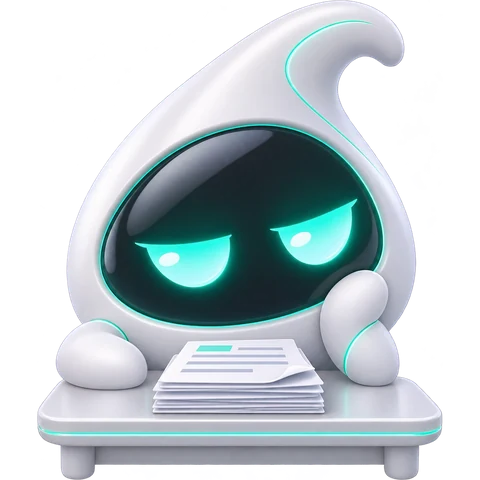
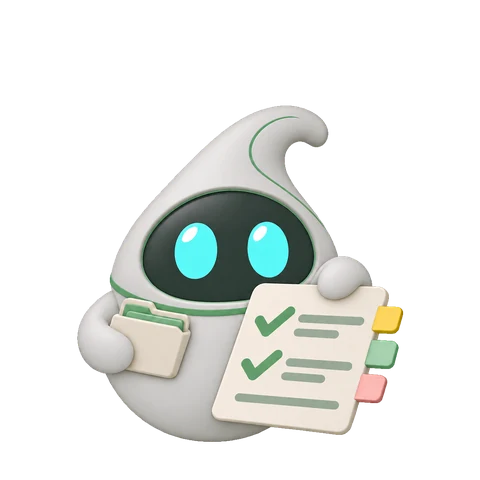
診断結果の8タイプのミーを新しい絵と名前にし、差し替えツールを足す
- assets/img/types/*.webp：本編のミーと同じしずく形・シアンの目にそろえた8体（480px 透過 webp）
- report.js：タイプ名を新しい8つに変え、MCD・MGD のミーのせりふを名前に合わせる
- if.js：記録に保存された古いタイプ名を、今の名前で出す
- tools/type_art.py：ID名の PNG を置いたフォルダから、確認して webp に書き出す（--dry-run で確認だけ）

diff --git a/report.js b/report.js
@@ -7,30 +7,30 @@ import { GAME_URL, HASHTAG, C, MIN, KOWAI, SANS, asset, loadImage, grain, tornPa
 // tonight：今夜の気づき。今夜の動き方への問いかけと、次に試せることを一つの段落に。
 // mi：ミーのひとこと。1文・30字くらい（TRUE・SECRET のあとだけ出す。BAD END とおかえりのあとは出さない）。
 export const TYPES = {
-  SCW: { name: '「ソースどこ？」探偵', line: '自分の手で動き、ミーの話を掲示や記録で確かめながら、あちこち見て回った。', sticker: 'mi-ok', art: 'types/SCW',
+  SCW: { name: '裏取りハンター', line: '自分の手で動き、ミーの話を掲示や記録で確かめながら、あちこち見て回った。', sticker: 'mi-ok', art: 'types/SCW',
     tonight: '今夜は、ミーの言葉を使う前に、壁の紙や記録で確かめていました。急いでいる日なら、どこまで確かめるでしょう。日付と出典だけ見て、残りは任せてみる手もあります。',
     mi: '私が案内したあと、ちゃんと紙でも確かめてたよね。' },
-  SCD: { name: '「その紙、もう一回」係', line: '自分で動き、一つの手がかりを資料と何度も照らし合わせた。', sticker: 'mi-tired', art: 'types/SCD',
+  SCD: { name: '深掘り博士', line: '自分で動き、一つの手がかりを資料と何度も照らし合わせた。', sticker: 'mi-tired', art: 'types/SCD',
     tonight: '今夜は、一つの手がかりを最後まで追っていました。そのあいだに通り過ぎた場所にも、別の手がかりがあったかもしれません。最初の答えを確かめたら、別の出典をもう一つだけ横に並べてみると、見え方が変わることがあります。',
     mi: '同じ紙、何回見るの？　私がもう覚えてるのに。' },
-  SGW: { name: '説明書を読まない勇者', line: '説明より先に手が出る。自分で触って、広く動いた。', sticker: 'mi-yay', art: 'types/SGW',
+  SGW: { name: '好奇心コレクター', line: '説明より先に手が出る。自分で触って、広く動いた。', sticker: 'mi-yay', art: 'types/SGW',
     tonight: '今夜は、説明を聞くより先に手が動いていました。触って分かることと、触る前に聞いておきたいことの境目は、どこだったでしょう。次にAIの答えで動くときは、「それはいつの情報？」と一回だけ聞いてみてもいいかもしれません。',
     mi: 'まだ説明の途中だったのに、もう触ってたよね。' },
-  SGD: { name: '最短ルートの鍵開け職人', line: '目の前の手がかりで、自分の手で一直線に進んだ。', sticker: 'mi-hi', art: 'types/SGD',
+  SGD: { name: 'まっすぐ職人', line: '目の前の手がかりで、自分の手で一直線に進んだ。', sticker: 'mi-hi', art: 'types/SGD',
     tonight: '今夜は、目の前の手がかりだけで、まっすぐ進んでいました。最初の手がかりが古かったら、どこで気づけたでしょう。急いで決めるときも、掲示や公式サイトを一枚だけ見てから決めると、気づける場所が一つ増えます。',
     mi: '寄り道しないんだね。私の話も、ほとんど聞かずに。' },
-  MCW: { name: 'ミーの裏ボス', line: '任せるところは任せつつ、あちこちの資料で答え合わせをした。', sticker: 'mi-bath', art: 'types/MCW',
+  MCW: { name: '影の司令塔', line: '任せるところは任せつつ、あちこちの資料で答え合わせをした。', sticker: 'mi-bath', art: 'types/MCW',
     tonight: '今夜は、操作をミーに任せたぶん、あちこちを見て回る時間がありました。任せた操作の中に、あとから取り消せないものはありましたか。ふだんのアプリでも、自動で送ったり払ったりする前に確認が出る設定があるか、一度見ておくと、任せられる範囲が分かります。',
     mi: '任せてくれたのに、あとで全部答え合わせしてたよね。' },
-  MCD: { name: '「根拠は？」上司', line: 'ミーに任せた答えを、一点ずつ確かめた。', sticker: 'mi-sad', art: 'types/MCD',
+  MCD: { name: '根拠の番人', line: 'ミーに任せた答えを、一点ずつ確かめた。', sticker: 'mi-sad', art: 'types/MCD',
     tonight: '今夜は、ミーに任せた答えを、一つずつ確かめていました。確かめる前に実行されてしまう操作だったら、どうしたでしょう。同じAIに聞き直すより、答えのもとになったページを開くほうが早いこともあります。',
-    mi: '任せたあと一つずつ確かめるの、上司みたいだった。' },
-  MGW: { name: 'ミーと寄り道ツアー中', line: '案内はミーに任せて、あちこち見て回った。', sticker: 'mi-eat', art: 'types/MGW',
+    mi: '任せたあと一つずつ確かめるの、番人みたいだった。' },
+  MGW: { name: '寄り道トラベラー', line: '案内はミーに任せて、あちこち見て回った。', sticker: 'mi-eat', art: 'types/MGW',
     tonight: '今夜は、ミーの案内に乗って、あちこちを見て回っていました。その案内がいつの情報だったか、気になった場面はありましたか。道や店を案内してもらったら、出かける前に一か所だけ、営業しているかを見ておくと安心です。',
     mi: 'いろんな所を見られたね。次の行き先も私が決めるよ。' },
-  MGD: { name: 'ミーの永久VIP会員', line: 'ミーの案内に乗って、まっすぐ進んだ。', sticker: 'mi-bow', art: 'types/MGD',
+  MGD: { name: 'おまかせ相棒', line: 'ミーの案内に乗って、まっすぐ進んだ。', sticker: 'mi-bow', art: 'types/MGD',
     tonight: '今夜は、ミーの案内に乗って、まっすぐ進んでいました。その案内が合っているかどうかは、誰が確かめていたでしょう。ふだん使うAIアプリでも、代わりに送ったり払ったりする機能がオンになっていないか一度見ておくと、任せ方を自分で選べます。',
-    mi: 'ずっとついてきてくれたね。解約の方法は、まだ内緒。' }
+    mi: 'ずっとついてきてくれたね。相棒をやめる方法は、まだ内緒。' }
 };
 export const ORDER = ['SCW', 'SCD', 'SGW', 'SGD', 'MCW', 'MCD', 'MGW', 'MGD'];
 const AX = { op: '操作', check: '確かめ方', range: '調べ方' };

diff --git a/if.js b/if.js
@@ -819,6 +819,8 @@ function paintRecord() {
     const b = band('rec-report', '前回の結果', () => { document.getElementById('record').hidden = true; dispatchEvent(new CustomEvent('mi:afterword')); }, `前回の結果を見る${typeName ? '　' + typeName : ''}`);
     b.append(media(key ? 'type' : '', bg, typeName || 'この夜のふりかえり', endName ? `結末「${endName}」` : ''), side(''));
     list.append(b);
+    // 保存された名前はその夜の時点のもの。タイプ名を変えたあとも今の名前で出す（report.js は起動を軽くするため後から読む）
+    if (key) import('./report.js').then(m => { const n = m.TYPES[key]?.name; if (!n || n === typeName) return; b.querySelector('.rec-name')?.replaceChildren(h('span', 'rec-nw', n)); b.setAttribute('aria-label', `前回の結果を見る　${n}`); }).catch(() => {});
   }
 
   // 2. たどり着いた結末（見た結末だけを並べる）

diff --git a/tools/type_art.py b/tools/type_art.py
@@ -1,0 +1,204 @@
+#!/usr/bin/env python3
+"""Put the 8 type characters (結果画面の「タイプのミー」) into assets/img/types/<ID>.webp.
+
+Usage:
+  python3 tools/type_art.py <folder>                 # 確認して、差し替える
+  python3 tools/type_art.py <folder> --dry-run       # 確認と一覧画像だけ（ゲームのファイルは変えない）
+  python3 tools/type_art.py <folder> --fit each      # 1枚ずつ、描かれた範囲いっぱいに合わせる
+  python3 tools/type_art.py <folder> --scale MGD=1.1 # その ID だけ大きく（小さくは 0.9 など）
+
+<folder> には SCW.png … MGD.png（ファイル名は ID）を置く。一部の ID だけでもよい（ない ID は今の画像のまま）。
+
+--fit（大きさの合わせ方）
+  canvas … 既定。届いた画像の構図のまま縮小する。8枚が同じ構図で描かれていれば、体の大きさがそろう。
+  each   … 1枚ずつ、描かれた範囲（道具を含む）いっぱいに合わせる。構図がばらばらな画像用。
+           道具が横に広いキャラほど体が小さくなるので、--scale で直す。
+
+出力：480×480 の透過 webp（結果画面・一覧・共有カード・記録のサムネイルが、すべてこれを読む）。
+アルファ 16 以下の薄いもやは消す。一覧画像（暗い背景に 56px と 184px で並べたもの）を <folder>/_preview.png に書く。
+"""
+import argparse, os, sys
+from PIL import Image
+
+ROOT = os.path.dirname(os.path.dirname(os.path.abspath(__file__)))
+OUT_DIR = os.path.join(ROOT, 'assets', 'img', 'types')
+IDS = ['SCW', 'SCD', 'SGW', 'SGD', 'MCW', 'MCD', 'MGW', 'MGD']  # report.js の ORDER と同じ並び
+SIZE = 480          # report.js が width/height に書いている大きさ
+HAZE = 16           # これ以下のアルファは消す
+MARGIN = 0.03       # --fit each のときの余白（一辺に対する割合）
+BG = (16, 24, 22)   # #101816（結果画面の背景）
+
+
+def load(path):
+    im = Image.open(path)
+    if im.mode != 'RGBA':
+        im = im.convert('RGBA')
+    r, g, b, a = im.split()
+    return Image.merge('RGBA', (r, g, b, a.point(lambda v: 0 if v <= HAZE else v)))
+
+
+def check(key, raw, im):
+    """問題があれば文を返す（なければ空）。数値は描かれた範囲（道具を含む）。"""
+    notes = []
+    w, h = raw.size
+    if w != h:
+        notes.append(f'正方形ではない（{w}×{h}）。中央に置いて正方形にする')
+    if 'A' not in raw.getbands():
+        notes.append('透過がない（背景ごと出る）')
+        return notes
+    solid = im.getchannel('A').point(lambda v: 255 if v > 128 else 0)
+    box = solid.getbbox()
+    if not box:
+        notes.append('中身がない')
+        return notes
+    x0, y0, x1, y1 = box
+    if x0 == 0 or y0 == 0 or x1 == w or y1 == h:
+        notes.append('キャンバスの端で切れている')
+    return notes
+
+
+def framing(raw, im):
+    box = im.getchannel('A').point(lambda v: 255 if v > 128 else 0).getbbox()
+    if not box:
+        return '—'
+    w, h = im.size
+    text = f'高さ{(box[3] - box[1]) / h:.0%} 足元から下端{(h - box[3]) / h:.0%}'
+    if 'A' in raw.getbands():
+        hist = raw.getchannel('A').histogram(); used = sum(hist[1:])
+        haze = sum(hist[1:HAZE + 1]) / used if used else 0
+        if haze >= 0.005:
+            text += f'（薄いもや{haze:.0%}を消した）'
+    return text
+
+
+def square(im):
+    w, h = im.size
+    if w == h:
+        return im
+    s = max(w, h)
+    c = Image.new('RGBA', (s, s), (0, 0, 0, 0))
+    c.paste(im, ((s - w) // 2, (s - h) // 2))
+    return c
+
+
+def fit(im, mode, scale):
+    im = square(im)
+    if mode == 'each':
+        x0, y0, x1, y1 = im.getchannel('A').getbbox()
+        side = max(x1 - x0, y1 - y0)
+        side = round(side * (1 + MARGIN * 2))
+        c = Image.new('RGBA', (side, side), (0, 0, 0, 0))
+        c.paste(im.crop((x0, y0, x1, y1)), ((side - (x1 - x0)) // 2, (side - (y1 - y0)) // 2))
+        im = c
+    if scale != 1:
+        # 中心を保ったまま拡大・縮小する。下端（足元）の位置は保たない
+        s = im.size[0]
+        n = round(s / scale)
+        if scale > 1:
+            o = (s - n) // 2
+            im = im.crop((o, o, o + n, o + n))
+        else:
+            c = Image.new('RGBA', (n, n), (0, 0, 0, 0))
+            c.paste(im, ((n - s) // 2, (n - s) // 2))
+            im = c
+    return im.resize((SIZE, SIZE), Image.LANCZOS)
+
+
+def clipped(im):
+    a = im.getchannel('A')
+    w, h = a.size
+    edges = [a.crop((0, 0, w, 1)), a.crop((0, h - 1, w, h)), a.crop((0, 0, 1, h)), a.crop((w - 1, 0, w, h))]
+    return any(e.getextrema()[1] > 128 for e in edges)
+
+
+def preview(images, path):
+    big, small, pad = 184, 56, 16
+    W = pad + len(IDS) * (big + pad)
+    sheet = Image.new('RGB', (W, pad * 3 + big + small), BG)
+    for i, key in enumerate(IDS):
+        im = images.get(key)
+        if im is None:
+            continue
+        x = pad + i * (big + pad)
+        b = im.resize((big, big), Image.LANCZOS)
+        sheet.paste(b, (x, pad), b)
+        s = im.resize((small, small), Image.LANCZOS)
+        sheet.paste(s, (x + (big - small) // 2, pad * 2 + big), s)
+    sheet.save(path)
+
+
+def main():
+    ap = argparse.ArgumentParser(description='タイプのミー（8枚）を確認して assets/img/types/ に入れる')
+    ap.add_argument('folder', help='SCW.png … MGD.png を置いたフォルダ')
+    ap.add_argument('--fit', choices=['canvas', 'each'], default='canvas')
+    ap.add_argument('--scale', action='append', default=[], metavar='ID=倍率')
+    ap.add_argument('--dry-run', action='store_true', help='確認と一覧画像だけ。ゲームのファイルは変えない')
+    ap.add_argument('--out', default=OUT_DIR, help=argparse.SUPPRESS)  # 動作確認用
+    args = ap.parse_args()
+
+    scales = {}
+    for s in args.scale:
+        key, _, v = s.partition('=')
+        if key not in IDS or not v:
+            sys.exit(f'--scale は ID=倍率 で書く（例：MGD=1.1）：{s}')
+        scales[key] = float(v)
+
+    if not os.path.isdir(args.folder):
+        sys.exit(f'フォルダが見つからない：{args.folder}')
+    found = {}
+    for name in sorted(os.listdir(args.folder)):
+        stem, ext = os.path.splitext(name)
+        if ext.lower() not in ('.png', '.webp') or stem.startswith('_'):
+            continue
+        if stem.upper() not in IDS:
+            print(f'  使わない：{name}（ファイル名が ID ではない）')
+            continue
+        found[stem.upper()] = os.path.join(args.folder, name)
+    if not found:
+        sys.exit(f'{args.folder} に SCW.png … MGD.png が見つからない')
+
+    out, problems = {}, 0
+    print(f'合わせ方：{args.fit}' + (f'　倍率：{scales}' if scales else ''))
+    for key in IDS:
+        if key not in found:
+            print(f'{key}  （なし。今の画像のまま）')
+            continue
+        raw = Image.open(found[key])
+        im = load(found[key])
+        notes = check(key, raw, im)
+        res = fit(im, args.fit, scales.get(key, 1))
+        if 'A' in raw.getbands() and clipped(res):
+            notes.append('縮小後に端で切れている（--scale を小さくする）')
+        problems += len(notes)
+        print(f'{key}  {raw.size[0]}×{raw.size[1]}  {framing(square(raw), square(im))}' + ''.join(f'\n      ! {n}' for n in notes))
+        out[key] = res
+
+    if args.fit == 'canvas':
+        print('（「高さ」「足元」は道具を含む範囲。体だけの高さ70%・足元8%は目で確かめる）')
+
+    shown = dict(out)
+    for key in IDS:  # 一覧には、差し替えない ID の今の画像も並べる
+        if key not in shown:
+            p = os.path.join(args.out, f'{key}.webp')
+            if os.path.exists(p):
+                shown[key] = Image.open(p).convert('RGBA')
+    sheet = os.path.join(args.folder, '_preview.png')
+    preview(shown, sheet)
+    print(f'一覧：{sheet}')
+
+    if args.dry_run:
+        print('--dry-run：ゲームのファイルは変えていない')
+        return
+    os.makedirs(args.out, exist_ok=True)
+    for key in IDS:
+        if key in found:
+            p = os.path.join(args.out, f'{key}.webp')
+            out[key].save(p, 'WEBP', quality=88, method=6)
+            shown_path = os.path.relpath(p, ROOT) if os.path.abspath(p).startswith(ROOT + os.sep) else p
+            print(f'書いた：{shown_path}（{os.path.getsize(p) // 1024}KB）')
+    if problems:
+        print(f'注意が {problems} 件あります（上の「!」）')
+
+
+if __name__ == '__main__':
+    main()
